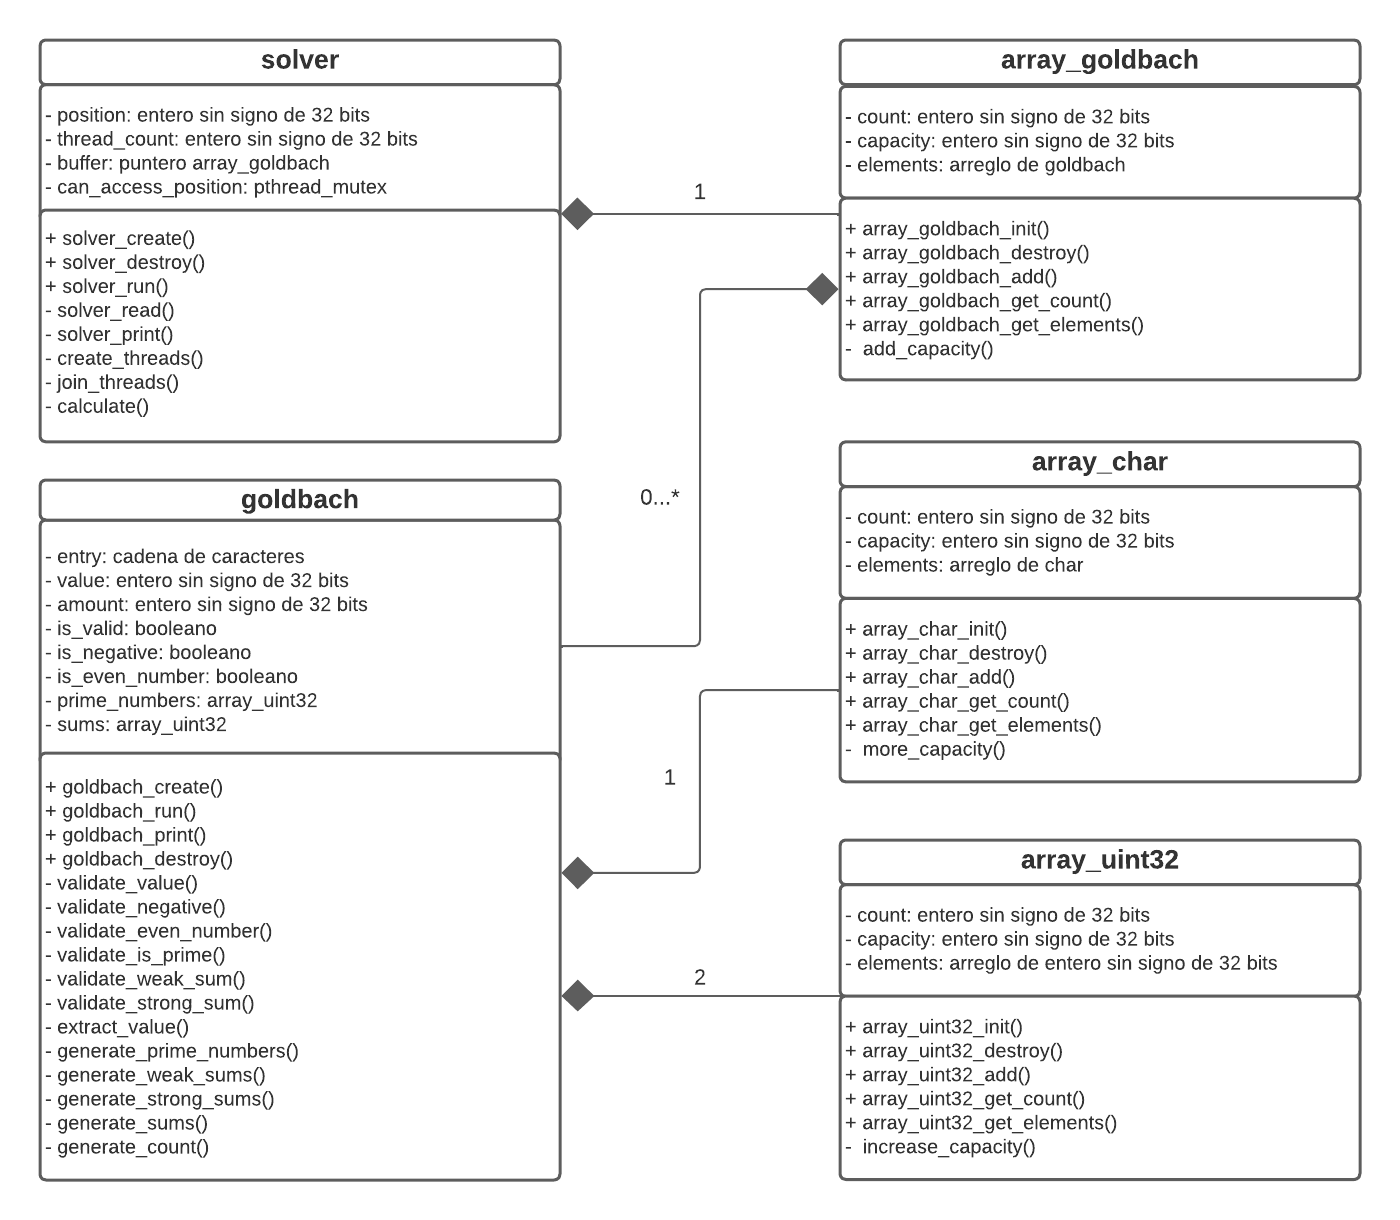
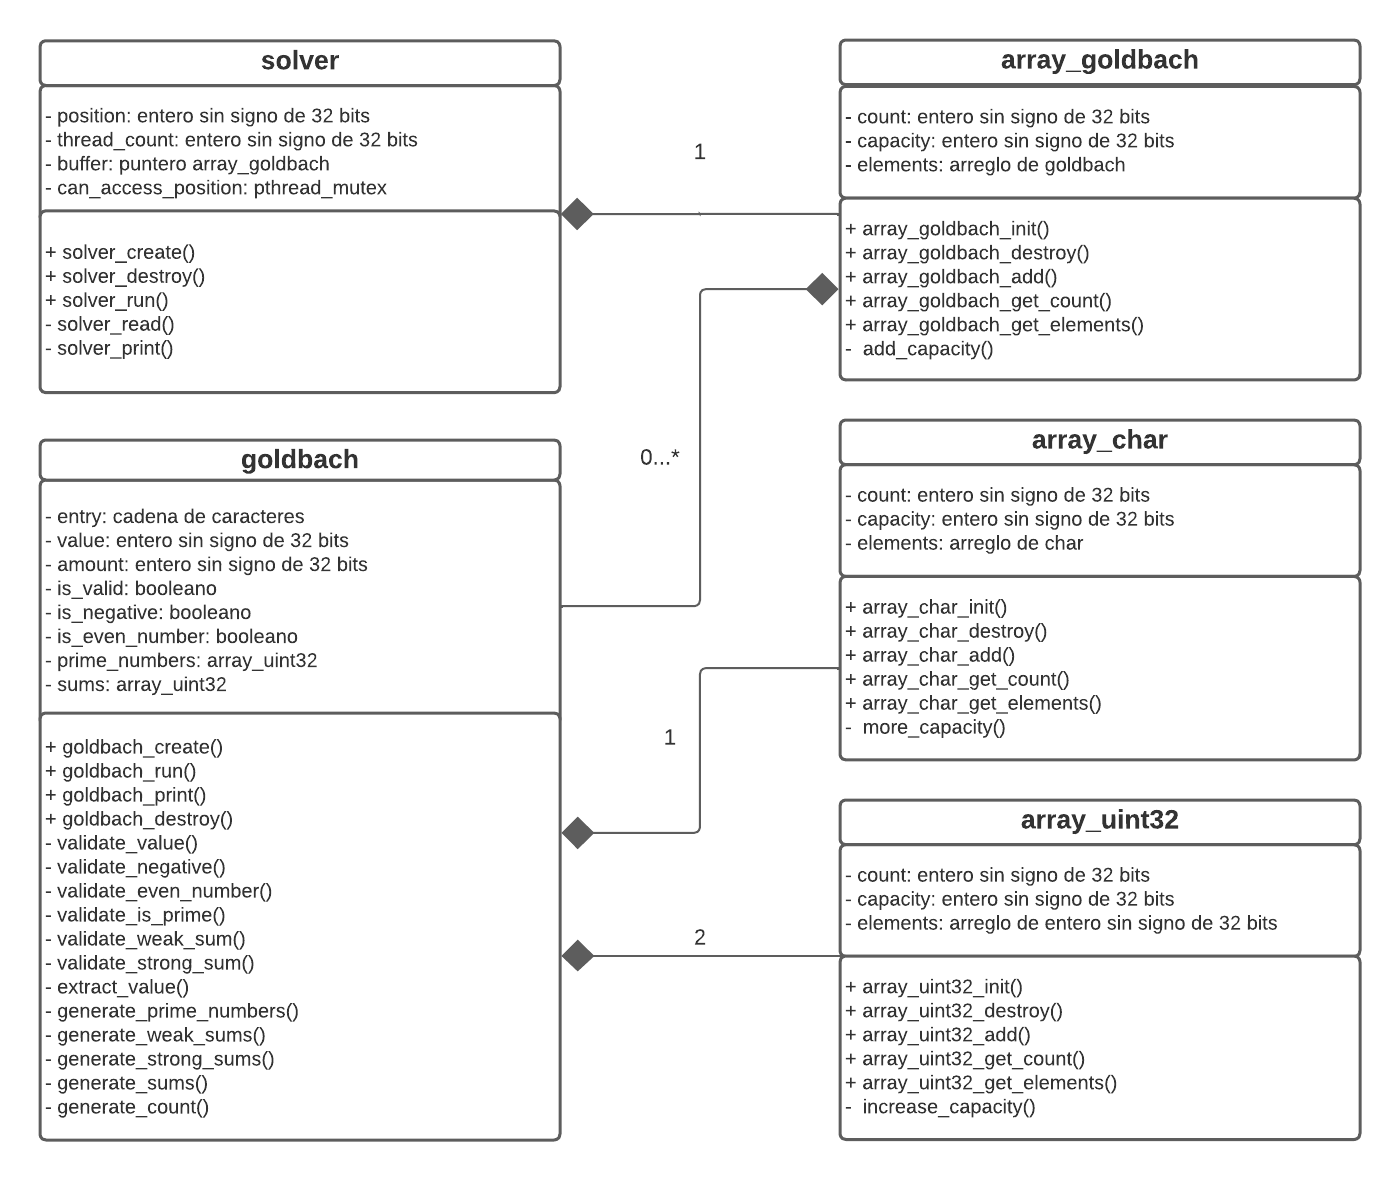
Se agrega avance de goldbach_openmp_mpi

Changed region(s): [[0.0307, 0.0305, 0.9829, 0.9763], [0.3993, 0.7017, 0.4914, 0.7322]]

diff --git a/src/solver.c b/src/solver.c
@@ -5,14 +5,6 @@
 #include "solver.h"
 
 /**
- * @brief Estructura que almacena la información privada de cada hilo
- * @details Almaecena un puntero a los datos compartidos entre hilos
- */
-typedef struct private_data {
-  solver_t* solver;
-} private_data_t;
-
-/**
  * @brief Lee los valores introducidos en la entrada estandar y opcionalmente
  *        la cantidad de hilos que el usario desea utilizar
  * @code 
@@ -33,49 +25,16 @@ void solver_read(solver_t* solver, int argc, char* argv[]);
  */
 void solver_print(solver_t* solver);
 
-/**
- * @brief Crea los hilos y asigna el trabajo
- * @code 
- *   create_threads(solver);
- * @endcode
- * @param solver Estructura de datos compartidos entre hilos
- */
-void create_threads(solver_t* solver);
-
-/**
- * @brief Invoca los métodos de calculo de Sumas de Goldbach para que varios
- *        hilos puedan hacer sus calculos de forma concurrente, utilizando
- *        mapeo dinámico
- * @code 
- *   pthread_create(&threads[index], NULL, calculate, &private_data[index]);
- * @endcode
- * @param data Datos privados de cada hilo
- * @return void* NULL
- */
-void* calculate(void* data);
-
-/**
- * @brief Hace el join de cada hilo del arreglo de hilos
- *   join_threads(threads, 10);
- * @param threads Arreglo de hilos
- * @param thread_count Cantidad de hilos del arreglo
- */
-void join_threads(pthread_t* threads, uint32_t thread_count);
-
 typedef struct solver {
-  uint32_t position;
   uint32_t thread_count;
   array_goldbach_t buffer;
-  pthread_mutex_t can_access_position;
 } solver_t;
 
 solver_t* solver_create() {
   // Crear e inicializar campos de la estructura
   solver_t* solver = (solver_t*) calloc(1, sizeof(solver_t));
-  solver -> position = 0;
   solver -> thread_count = sysconf(_SC_NPROCESSORS_ONLN);
   array_goldbach_init(&solver -> buffer);
-  pthread_mutex_init(&solver -> can_access_position, NULL);
   return solver;
 }
 
@@ -99,7 +58,15 @@ void solver_read(solver_t* solver, int argc, char* argv[]) {
 void solver_run(solver_t* solver, int argc, char* argv[]) {
   assert(solver);
   solver_read(solver, argc, argv);
-  create_threads(solver);
+  goldbach_t** buffer_elements = array_goldbach_get_elements(&solver -> buffer);
+  uint32_t buffer_size = array_goldbach_get_count(&solver -> buffer);
+  // Cálculo de sumas de Goldbach
+  #pragma omp parallel for schedule(dynamic) \
+    num_threads(solver -> thread_count) default(none) \
+    shared(buffer_elements, buffer_size)
+    for (uint32_t index = 0; index < buffer_size; ++index)
+      goldbach_run(buffer_elements[index]);
+  solver_print(solver);  // Imprimir sumas de Goldbach
 }
 
 void solver_print(solver_t* solver) {
@@ -115,54 +82,5 @@ void solver_destroy(solver_t* solver) {
   assert(solver);
   // Liberar memoria empleada por la estructura
   array_goldbach_destroy(&solver -> buffer);
-  pthread_mutex_destroy(&solver -> can_access_position);
   free(solver);
-}
-
-void create_threads(solver_t* solver) {
-  assert(solver);
-  uint32_t thread_count = solver -> thread_count;
-  // Inicializar arreglo de hilos y estructura de datos privados
-  pthread_t* threads = (pthread_t*) calloc(thread_count, sizeof(pthread_t));
-  private_data_t* private_data =  (private_data_t*) calloc(thread_count,
-                                                    sizeof(private_data_t));
-  if (threads && private_data) {
-    for (uint32_t index = 0; index < thread_count; ++index) {
-      private_data[index].solver = solver;
-      // Crear los hilos y asignarles su trabajo a hacer
-      pthread_create(&threads[index], NULL, calculate, &private_data[index]);
-    }
-    join_threads(threads, thread_count);  // Hacer join a todos los hilos
-    solver_print(solver);  // Imprimir las Sumas de Goldbach
-    // Liberar memoria utilizada por los hilos
-    free(private_data);
-    free(threads);
-  }
-}
-
-void join_threads(pthread_t* threads, uint32_t thread_count) {
-  // Hacer join a cada hilo del arreglo de hilos
-  for (uint32_t index = 0; index < thread_count; ++index)
-    pthread_join(threads[index], NULL);
-}
-
-void* calculate(void* data) {
-  assert(data);
-  private_data_t* private_data = (private_data_t*) data;
-  solver_t* solver = private_data -> solver;
-  goldbach_t** elements = array_goldbach_get_elements(&solver -> buffer);
-  uint32_t buffer_size = array_goldbach_get_count(&solver -> buffer);
-  uint32_t my_position = 0;
-  while (true) {
-    pthread_mutex_lock(&solver -> can_access_position);
-    my_position = solver -> position;
-    ++solver -> position;
-    pthread_mutex_unlock(&solver -> can_access_position);
-    if (my_position < buffer_size)
-      // Calcular las Sumas de Goldbach para el valor actual en el arreglo
-      goldbach_run(elements[my_position]);
-    else
-      break;
-  }
-  return NULL;
 }

diff --git a/report/README.md b/report/README.md
@@ -77,7 +77,7 @@ Es evidente que el mayor incremento en la velocidad y la eficiencia del programa
 
 En este grafico se puede apreciar la importante caída en la duración de ejecución del programa con la tarea #2 que fue donde se implementó la versión concurrente y en la optimización #2 en la que se modificó el ineficiente algoritmo de cálculo y en donde se vió el mayor aumento de velocidad con respecto a la versión serial.
 
-![Gráfico de Comparación #2: optimización](../images/optimizationGraph2.png)
+![Gráfico de Comparación #2: Optimización](../images/optimizationGraph2.png)
 
 Del anterior gráfico se puede concluir que la eficiencia crece en la misma medida que se da los aumentos de velocidad.
 
@@ -97,6 +97,23 @@ Esta información se puede observar más claramente en el siguiente gráfico:
 ![Gráfico de Comparación #2: Concurrencia](../images/concurrencyGraph.png)
 
 Como se puede apreciar en el gráfico el mayor incremento de velocidad se da cuando se trabaja con la cantidad de hilos equivalentes a CPU disponibles, a partir de ahí utilizar más hilos no dará más aumentos de velocidad y por el contrario vuleve menos eficiente el programa sin tener beneficios. Por otro lado, se observa que la versión más cercana al punto de equilibrio entre incremento de velocidad y eficiencia es cuando se utilizan la cantidad de hilos equivalente a la mitad de CPU existentes. ```El punto de óptimo de incremento de velocidad - eficiencia se encuentra al emplear la cantidad de hilos equivalente a un tercio de CPU disponibles```, que para el equipo donde se hicieron las pruebas serían cuatro hilos. [Hoja de cálculo](perfMeasure.xlsx).
+
+## Comparación #3: OpenMP
+
+A continuación se presenta una tabla con los distintos datos recabados de ```goldbach_pthread``` y ```OpenMP``` para hacer un contraste entre estas versiones y ver la evolución de la velocidad y eficiencia en cada etapa. Se empleó el caso de prueba [input020.txt](../test/input020.txt) para tomar los datos.
+
+|                  | goldbach_pthread | OpenMP           |
+|------------------|------------------|------------------|
+|Hilos             | 12               | 12               |
+|Tiempo            | 22823.12         | 359.57           |
+|Velocidad         | 3.01             | 190.87           |
+|Eficiencia        | 0.25             | 15.91            |
+
+Esta información se puede observar más claramente en el siguiente gráfico:
+
+![Gráfico de Comparación #3: OpenMP](../images/openMPGraph.png)
+
+La gran diferencia en velocidad y eficiencia que muestra el gráfico es gracias a las optimizaciones realizadas en la tarea #3 ya que el rendimiento entre esta versión y la versión que utiliza OpenMP es practicamente la misma. Con respecto a la versión de la Tarea #2 esta es basatnte lenta debido a que no está optimizada y por ende tiene una grandiferencia de rendimiento con la versión de OpenMP.
 
 ## Navegación
 

diff --git a/README.md b/README.md
@@ -1,11 +1,11 @@
-# **Golbach Calculator**
+# **Goldbach Calculator**
 ## Descripción del problema
 
 Este programa se encarga de obtener las sumas de Goldbach de uno o varios valores dados que el usuario puede ingresar. El matemático Christian Goldbach propuso que todo número entero mayor que cinco se puede expresar como la suma de un conjunto de números primos. Esta propuesta se divide en dos conjeturas:
 
-* ```Conjetura fuerte:``` Todo número par se puede escribir como la suma de dos números primos. Ejemplo: 8 = 3 + 5.
+* ```Conjetura fuerte```: Todo número par se puede escribir como la suma de dos números primos. Ejemplo: 8 = 3 + 5.
   
-* ```Conjetura débil:``` Todo número impar se puede escribir como la suma de tres números primos. Ejemplo: 9 = 2 + 2 + 5.
+* ```Conjetura débil```: Todo número impar se puede escribir como la suma de tres números primos. Ejemplo: 9 = 2 + 2 + 5.
 
 ## Manual de uso
 
@@ -37,13 +37,13 @@ Existen dos formas de ejecutar el programa, la primera forma es insertando los d
 bin/Goldbach-Calculator
 ```
 
-Opcionalmente también se puede ingresar la cantidad de hilos deseados para resolver la ejecución del programa, en caso de no brindar ningún número se utilizará la máxima capacidad que el hardware pueda brindar. Para introducir la cantidad de hilos deseados siga el siguiente ejemplo donde se solicita utilizar diez hilos:
+Opcionalmente también se puede ingresar la cantidad de hilos y procesos deseados para resolver la ejecución del programa, en caso de no brindar ningún número se utilizará la máxima capacidad que el hardware pueda brindar. Para introducir la cantidad de hilos y procesos requeridos siga el siguiente ejemplo donde se solicita utilizar diez hilos:
 
 ```
 bin/Goldbach-Calculator 10
 ```
 
-Después de introducir el comando, se podrán digitar los datos y por cada dato introducido el programa brindará instantaneamente un resultado. Para indicarle al programa que ya no debe leer más datos presione ```ctrl + d```.
+Después de introducir el comando, se podrán digitar los datos y por cada dato introducido el programa brindará instantaneamente un resultado. Para indicarle al programa que ya no debe leer más datos presione ctrl + d.
 
 Si en cambio se desea evaluar algún archivo .txt que contengan los datos se le debe pasar la ruta del archivo a analizar. Ejemplo del comando a usar:
 

diff --git a/design/README.md b/design/README.md
@@ -61,7 +61,7 @@ Esta estructura se encarga del almacenamiento de elementos de tipo goldbach_t*. 
 typedef struct array_goldbach {
   uint32_t count;
   uint32_t capacity;
-  goldbach_t** elements;
+  goldbach_t``` elements;
 } array_goldbach_t;
 ```
 
@@ -73,18 +73,12 @@ Para recorrer cada archivo introducido y calcular las Sumas de Goldbach para tod
 
 ```C
 typedef struct solver {
-  uint32_t position;
   uint32_t thread_count;
   array_goldbach_t buffer;
-  pthread_mutex_t can_access_position;
 } solver_t
-
-typedef struct private_data {
-  solver_t* solver;
-} private_data_t;
 ```
 
-La estructura ```solver``` se encarga de almacenar los datos compartidos entre los diferentes hilos, posee los campos ```position``` que es la variable contadora para la reparticion de celdas del arreglo entre los hilos, ```thread_count``` que guarda la cantidad de hilos a crear para resolver las operaciones, ```buffer``` que almacena los objetos goldbach_t* correspondientes a cada valor y ```can_access_position``` que es un mutex que controla la lectura y modificación del campo position. El método constructor no requiere parámetros.
+La estructura ```solver``` se encarga de almacenar los datos compartidos entre los diferentes hilos, posee los campos ```thread_count``` que guarda la cantidad de hilos a crear para resolver las operaciones y ```buffer``` que almacena los objetos goldbach_t* correspondientes a cada valor. El método constructor no requiere parámetros.
 
 Por último, la estructura ```private_data``` contiene la información exclusiva para cada hilo, tiene como único campo un puntero que apunta a los datos compartidos que sería ```solver```.
 
